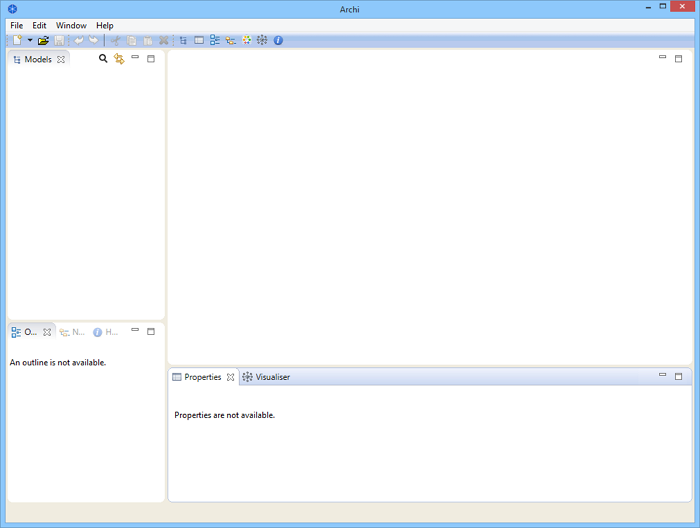
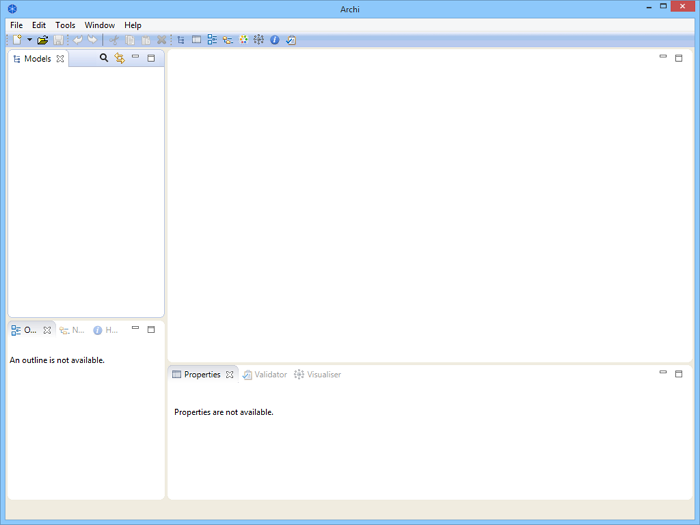
[Help] Update help and images

diff --git a/com.archimatetool.help/help/Text/validator.html b/com.archimatetool.help/help/Text/validator.html
@@ -1,0 +1,44 @@
+<?xml version="1.0" encoding="utf-8" ?>
+<!DOCTYPE html PUBLIC "-//W3C//DTD XHTML 1.0 Transitional//EN" "http://www.w3.org/TR/xhtml1/DTD/xhtml1-transitional.dtd">
+<html xmlns="http://www.w3.org/1999/xhtml">
+
+<head>
+<meta http-equiv="Content-Type" content="text/html; charset=utf-8"/>
+<title>The Hints Window</title>
+<link href="../Styles/style.css" rel="stylesheet" type="text/css" />
+</head>
+
+<body>
+
+    <h1 class="pagebreak">The Validator</h1>
+    
+    <p>The Validator offers advice and warnings on the integrity of an ArchiMate model. It can highlight the following issues:</p>
+    
+    <ul>
+        <li>Empty Views (Views without diagram elements)</li>
+        <li>Invalid Relations (possible if importing from another format)</li>
+        <li>Invalid nested elements (visual nesting without a relationship)</li>
+        <li>Unused elements and relations (not referenced in a View)</li>
+        <li>Invalid elements in a viewpoint (elements that don't belong in a viewpoint)</li>
+    </ul>
+    
+    <p>The Validator window can be opened from the main "Tools" menu, from the main toolbar, or from the main "Window" menu.</p>
+    
+    <p>To validate a model, ensure that the model has the focus by selecting it in the Models Tree or selecting one of the model's Views. Then either select "Validate Model" from the "Tools" menu, or from right-clicking in the Models Tree, or in the Validator window itself.</p>
+    
+    <img src="../Images/validator1.png" alt="image" />
+    <p class="caption">The Validator showing tips</p>
+    
+    <p>Double-clicking on an issue, or selecting the right-click menu item "Reveal Object" in the Validator window, will reveal the affected object in either the Models tree or a View.</p>
+    
+    <p>To show an explanatory hint about the issue, ensure the Hints window is open, or select the right-click menu item "Show Explanation Hint".</p>
+    
+    <p>Once all issues have been fixed in the model the Validator will indicate that everything is OK:</p>
+
+    <img src="../Images/validator2.png" alt="image" />
+    <p class="caption">The Validator is happy</p>
+
+    <p>&nbsp;</p>
+
+</body>
+</html>

diff --git a/com.archimatetool.help/help/Text/install.html b/com.archimatetool.help/help/Text/install.html
@@ -41,6 +41,7 @@
 		<li>The <strong>Palette</strong> window. When opened will display a single window for the drawing Palette used in Views.</li>
 		<li>The <strong>Visualiser</strong> window. This window displays the selected model element and all of its relationships with other model elements in a graphical way. It is the graphical equivalent of the Navigator.</li>
 		<li>The <strong>Hints</strong> window. This displays short textual hints for the selected object. For example, selecting an ArchiMate "Business Actor" diagram element displays a short summary of that object's meaning and purpose. Selecting an item or hovering over an item, in the diagram's palette also displays a hint in the window.</li>
+		<li>The <strong>Validator</strong> window. This provides hints and tips to improve your model.</li>
 	</ul>
 	
 	<p>These sub-windows can be re-arranged by dragging them into  new positions, or by dragging them out of the main application window to become detached from the main window.</p>

diff --git a/com.archimatetool.help/help/Text/tools.html b/com.archimatetool.help/help/Text/tools.html
@@ -12,7 +12,7 @@
 
     <h1 class="pagebreak">Tools</h1>
     
-    <p>The following features are available from the "Tools" menu.</p>
+    <p>The following features are available from the main "Tools" menu.</p>
     
     <p>&nbsp;</p>
 
